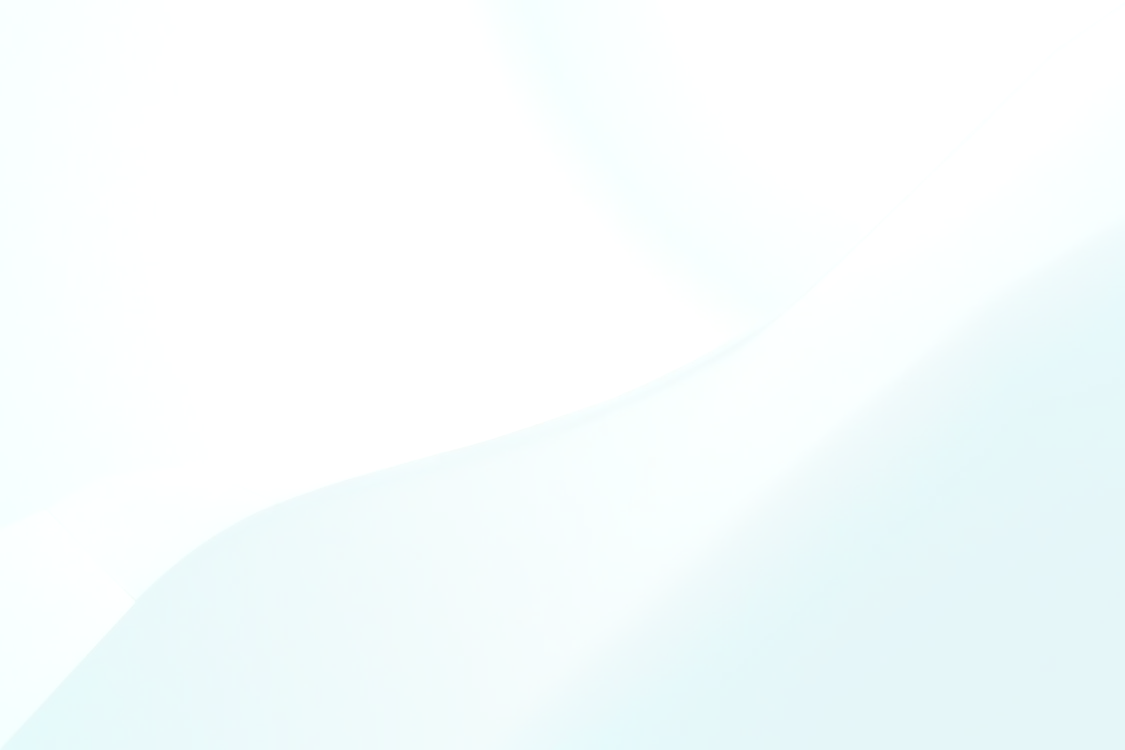
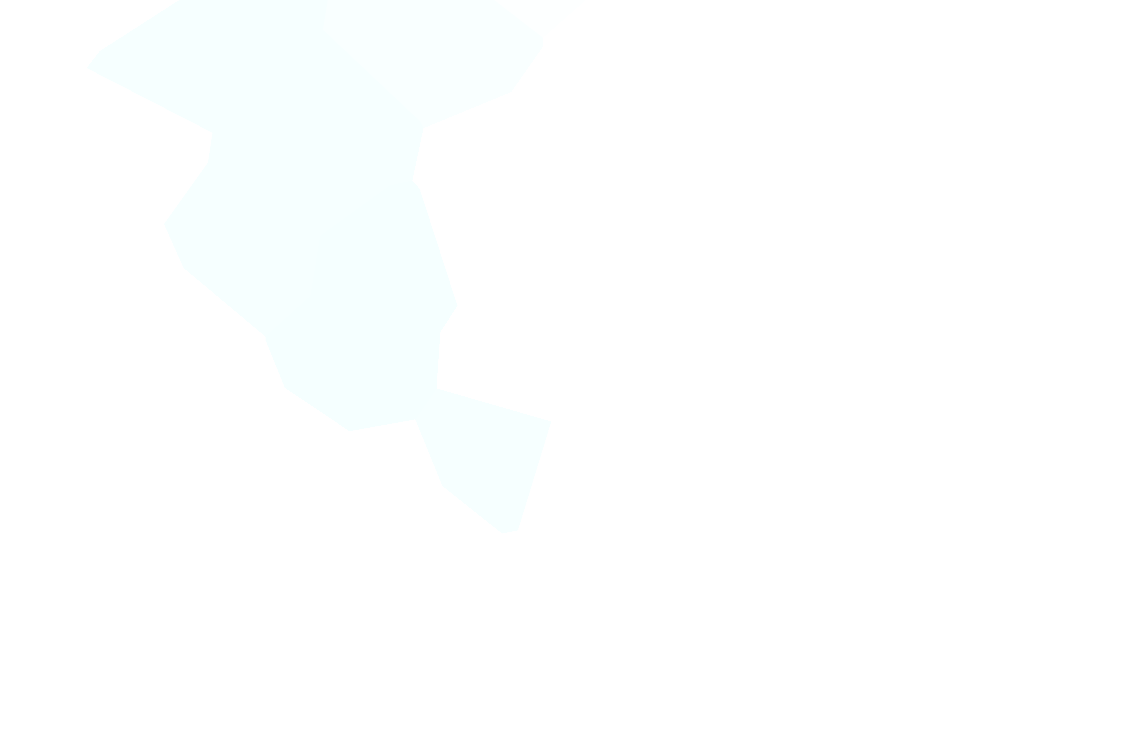
alot of background changes

Changed region(s): [[0.5289, 0.3987, 1.0, 1.0], [0.0, 0.92, 0.0622, 1.0]]

diff --git a/index.html b/index.html
@@ -21,7 +21,7 @@
     -->
     
     <nav class = "parentContainer">
-        
+
         <div class = "childContainer container1">
             <div class = "link">
                 <span class = "linkSpan">
@@ -29,7 +29,6 @@
                 <a class = "linkItems linkItems2" href = "https://www.instagram.com/y.uka7/" target = "_blank"><img class = "socialsMediaIcon" src = "/src/styles/images/instalogob.png"></a> 
                 <a class = "linkItems linkItems3" href = "https://linkedin.com/in/jacky-l-170103164/" target = "_blank"><img class = "socialsMediaIcon" src = "/src/styles/images/linkedincyanb.png"></a>
                 <a class = "linkItems linkItems4" href = "https://github.com/ykcaj-i" target = "_blank"><img class = "socialsMediaIcon" src = "/src/styles/images/githubcyanb.png"></a>  
-    
                 </span>   
             </div> 
         </div>
@@ -37,9 +36,9 @@
             <div class = "navButton"> <!--navButton-->      
                 <span>
                     <a href = #top class="navButtonElement navButtonElement1"><span class = "navButtonElementSpan" id = "home">&nbsp;● home&nbsp;</span></a>
-                    <a href = #contacts class="navButtonElement navButtonElement2"><span class = "navButtonElementSpan1">&nbsp;contact&nbsp;</span></a>
-                    <a href = #album class="navButtonElement navButtonElement3"><span class = "navButtonElementSpan1">&nbsp;misc&nbsp;</span></a>
-                   <button class = "navButtonElement darkModeButton" onclick="darkMode()"><div class = "emoji">🌙</div></button>
+                    <a href = #contacts class="navButtonElement navButtonElement2"><span class = "navButtonElementSpan1">&nbsp;contact&nbsp;</span></a> 
+                    <a href = #album class="navButtonElement navButtonElement2"><span class = "navButtonElementSpan1">&nbsp;art&nbsp;</span></a> 
+                    <button class = "navButtonElement darkModeButton" onclick="darkMode()"><div class = "emoji">🔅</div></button>
                 </span>
             </div> <!--navbarButton-->
         </div>
@@ -49,15 +48,15 @@
                 <div class="myName">
                     <div class="imagetextcenter">
                         <img class = "pfp" id = "profilepicture" src = "/src/styles/images/bluewhite35.png" alt = "image">
+                        <!--<img class = "pfp" id = "profilepicture" src = "/src/styles/images/bluewhite35.png" alt = "image">-->
                         <span><h1 class = "name">Jacky&nbsp;Liu</h1></span>
-                       <!-- <img class = "pfp" id = "profilepicture" src = "./src/styles/images/bluewhite35.png" alt = "image"> -->
-                        <br>
-                        <br>    
+                       <!-- <img class = "pfp" id = "profilepicture" src = "./src/styles/images/bluewhite35.png" alt = "image"> -->  
                     </div>
                 </div>           
             </header>
-        </div> <!--container3-->
-        
+        </div> <!--container3-->  
+        <br>
+     
         <!--
         <div class = "childContainer container2">
             <div class = "navButton"> 
@@ -81,6 +80,7 @@
             </header>
         </div>
         -->
+       
     </nav>
     <!------------------------------------------------------------------HEADER-->
 
@@ -94,7 +94,7 @@
             
             <div class="tree" id = "tree">
                     <p id = "topictitle"><span id = "hovertopic"><b>table of contents:</b></span></p>
-                  
+                    
                     <a id = "topic" class = "topic" href = #about><p id = "topictitle"><span id = "hovertopic">&nbsp;&nbsp;&nbsp;&nbsp;&nbsp;&nbsp;about&nbsp;&nbsp;&nbsp;&nbsp;&nbsp;&nbsp;&nbsp;</span></p></a>
                     <a id = "topic" class = "topic"  href = #projects><p id = "topictitle"><span id = "hovertopic">&nbsp;&nbsp;&nbsp;&nbsp;&nbsp;projects&nbsp;&nbsp;&nbsp;&nbsp;&nbsp;</span></p></a>
                     <a id = "topic" class = "topic"  href = #software><p id = "topictitle"><span id = "hovertopic">&nbsp;&nbsp;&nbsp;&nbsp;&nbsp;software&nbsp;&nbsp;&nbsp;&nbsp;&nbsp;</span></p></a>
@@ -104,14 +104,14 @@
         <!------------------------------------------------------------------------------------------------------------------------------------------TREE-->
         <div class="maincontent" id = "flexboxspacing">
             <div class = "maincontentstyle" id = "about" >
+                
                 <div class = "aboutnav"> 
+                    
                     <div class="aboutcontent" id = "about"><br>
                         <div id = "abouttitles">&nbsp;⋮ about</div><br>
                             <div id = "span1">
-                                <a class="aboutbuttons">fullstack</a>
                                 <a class="aboutbuttons">web developer</a>
-                                <a class="aboutbuttons">web designer</a>
-                                <a class="aboutbuttons">swe</a>
+                                <a class="aboutbuttons">software developer</a>
                                 <a class="aboutbuttons">nyc</a>
                                 <br>
                             </div>
@@ -120,15 +120,11 @@
                             <span>
                                 <br>
                                 <span>
-                                    <br><p class = "para1" id = "lol">❱  hi i'm jacky a software engineer specializing in web development and web design</p>
+                                    <br><p class = "para1" id = "lol">❱  hello, i'm a software developer specializing in frontend web development and web design.</p>
                                 </span>
                                 <span>
                                     <br><p class = "para1" id = "lol">❱  i'm a student at <span class = "colorhover">CUNY Queens College</span> majoring in computer science, and minoring in design</p>
-                                </span>
-                                <span>
-                                    <br><p class = "para1" id = "lol">❱  you can send me an email over at jliufend@gmail.com for any software/tech inquiries</p>
-                                </span>
-                               
+                                </span>         
                             </span>
                         </div>
 
@@ -291,12 +287,14 @@
  <div class = "secondpage">
     <div class = "imagecontent">
         <br><br><br><br><br>
+        <!--
         <p id="dte"></p>
         <div id = "clock">
             <span>
                 <h1><span id="mind"></span>&nbsp;<span id="txt"></span></h1>
             </span>
         </div>
+        -->
         <div class = "parentcontainer" id = "album">  
             <br><br><br><br><br> 
          
@@ -306,17 +304,19 @@
             <a class = "para2-5" href = "https://open.spotify.com/album/6GehZ1cDeurvyt0emrC7sE?si=c98N24E3SLSqSkdJjmfvuw" target = "_blank">
                 <p class = ""><b>cicada - seeking the sources of streams</b></p>
             </a>  
-            <br><br><br>
+          
+            <!--
             <a class = "para2-5" style = "text-align: center;">
+                
                 <h4>favorite media:</h4>
                 <p class = "">song:   <font style = "color: rgb(233, 224, 102); font-size: 100%;"><b>tokyo shoegazer - bright ⭐</b></font></p>
                 <p class = "">game: <font style = "color: rgb(172, 24, 24);"><b>guild wars</font> <font style = "color: rgb(163, 23, 23); font-family: 'MedievalSharp'; font-size: 105%;">2</font></b></p>
                 <p class = "">tv show: <font style = "color: rgb(75, 67, 143); font-size: 100%;"><b>from 🐦⬛</b></font></p>
-               
+             
        
                
                 
-            </a>
+            </a>  -->
         </div>
       
     </div>
@@ -432,7 +432,34 @@
 </footer>
 <br>
 
+<!--example gsap
 
+
+
+
+<script src="https://cdnjs.cloudflare.com/ajax/libs/gsap/3.12.2/gsap.min.js"></script>
+<script>
+  // Water-like ripple effect using brightness and scale distortions
+  gsap.to("#waterImage", { 
+    duration: 3, 
+    filter: "brightness(0.9)", // Slight brightness fluctuation
+    scaleX: 1.02, // Horizontal ripple-like scaling
+    scaleY: 1.01, // Vertical ripple-like scaling
+    repeat: -1, 
+    yoyo: true, 
+    ease: "sine.inOut" 
+  });
+
+  // Optional: Simulate very gentle horizontal wiggle for flow
+  gsap.to("#waterImage", { 
+    duration: 2.5, 
+    x: 2, // Slight horizontal movement
+    repeat: -1, 
+    yoyo: true, 
+    ease: "sine.inOut" 
+  });
+</script>
+-->
 </body>
 </html>
 

diff --git a/src/styles/style.css b/src/styles/style.css
@@ -13,7 +13,7 @@ body{
     transition: 1s;
 /*
     background-repeat: no-repeat;
-    background-image: url(./images/plant.png);
+    background-image: url(/src/styles/images/windows.png);
     background-size: 100%;
     background-position: top;
 */
@@ -23,9 +23,10 @@ body{
 
 .darkmodeNoTransition{
     background-color: #011d2b;
-    background-repeat: no-repeat, no-repeat;
-    background-image: url(/src/styles/images/snowymountainsoriginal.png);
-    background-size: 100%;
+    background-repeat: no-repeat, no-repeat, no-repeat, no-repeat;
+    background-image: url(/src/styles/images/snowymountainsoriginal1.55.png), url(/src/styles/images/snowymountainsoriginal.png), url(/src/styles/images/snowymountainsoriginal4.png), url(/src/styles/images/snowymountainsoriginal1.png);
+    background-size: 100%, 100%, 100%, 100%;
+    background-position: top, top, bottom, bottom;
     .name{
         color: #4effff;
         text-shadow: 0 0 3px rgba(18, 118, 148, 0.233);
@@ -67,6 +68,16 @@ body{
         border-right: solid 1.5px rgba(0, 11, 15, 0.322);
         border-left: solid 1.5px rgba(0, 11, 15, 0.322);
         box-shadow: 0 0 10px rgb(0, 49, 66);
+    }
+    .emoji{
+        font-size: 90%;
+        color: transparent; text-shadow: 0 0 0 #64faff;
+        border-radius: 25px;
+        padding-bottom: 1px;
+        background-color: rgb(4, 54, 66);
+    }
+    .navButtonElementSpan{
+        background-color: rgb(4, 54, 66);
     }
 }
 /*PASSED QUALITY CHECK*/
@@ -133,13 +144,13 @@ body{
     transition: 1.5s !important;
     /*transform: scaleX(-1);*/
 }
-.darkModeButton:hover{background-color: transparent !important; transform: rotate(360deg);}
+.darkModeButton:hover{background-color: transparent !important; transform: rotate(180deg);}
 .emoji{
     font-size: 90%;
     color: transparent; text-shadow: 0 0 0 #64faff;
     border-radius: 25px;
     padding-bottom: 1px;
-
+    background-color: #d3f6ff46;
 }
 
 
@@ -197,7 +208,7 @@ body{
 
 /*name----------------------------------------------*/
 .name{
-    padding: 35px 35px 35px 35px ;
+    padding: 15px 15px 15px 15px;
     margin: 0.25em;
     font-family:'IBM Plex Sans';
     font-weight: 500;
@@ -344,8 +355,8 @@ body{
     display: grid;
 }
 .maincontentstyle{
-    background-color: rgb(245, 254, 255);
-    background-image: linear-gradient(to bottom, rgb(245, 254, 255), rgb(238, 255, 254), rgb(230, 255, 253), rgb(170, 255, 248), rgb(187, 255, 249));
+    background-color: transparent;
+    background-image: linear-gradient(to bottom, rgba(245, 254, 255, 0.596), rgb(238, 255, 254), rgb(230, 255, 253), rgb(170, 255, 248), rgb(187, 255, 249));
     border: whitesmoke;
     border-radius: 25px;
     box-shadow:  0 0 80px 10px  rgb(206, 255, 251);
@@ -359,16 +370,16 @@ body{
 }
 
 .darkmodemain{
-    background-color: #002227;
-    background-image: linear-gradient(to bottom,#011d2b, #011420, #011220);
+    background-color: transparent;
+    background-image: linear-gradient(to bottom,#0220308e, #021f3188, #011b3088);
     border-radius: 25px;
-    box-shadow: 0 0 20px 5px  rgb(3, 47, 83);
+    box-shadow: 0 0 20px 5px  rgb(3, 58, 83);
     animation: glowAnimate 10s infinite;
 }
 
 @keyframes glowAnimate {
     33%{
-        box-shadow: 0 0 20px 5px  rgba(5, 114, 122, 0.466);
+        box-shadow: 0 0 20px 5px  rgba(4, 97, 105, 0.466);
     }
 }
 .aboutcontent{
@@ -457,6 +468,7 @@ body{
     max-width: 100%;
     width: auto;
     height: auto;
+    box-shadow: 0 0 8px #379cbb3b;
 }
 
 .parentcontainer > h1{
